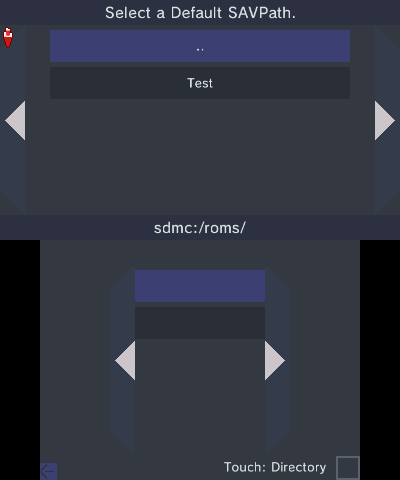
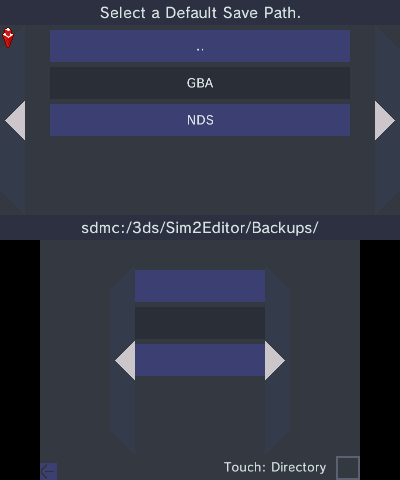
See desc for more.
- GBA Identifier is 8 in size, not 7.
- Fix Backup checks, oops.
- Makefile update.
- Don't allow empty String Label Inputs.

diff --git a/core/source/shared/SavUtils.cpp b/core/source/shared/SavUtils.cpp
@@ -81,7 +81,7 @@ namespace S2Core {
 		Backup Format would be: 'Sims2-Year.Month.Day-Hour.Minute.Second.Sav'
 	*/
 	bool SavUtils::CreateBackup(const std::string &BasePath) {
-		if (!SavUtils::Sav || SavUtils::Sav->GetValid()) return false;
+		if (!SavUtils::Sav || !SavUtils::Sav->GetValid()) return false;
 
 		std::string BackupPath = BasePath + "/Backups/"; // Base path.
 		bool CreateIt = false;
@@ -92,7 +92,7 @@ namespace S2Core {
 		char TimeBuffer[80];
 		time(&Rawtime);
 		TimeInfo = localtime(&Rawtime);
-		strftime(TimeBuffer, sizeof(TimeBuffer),"%Y.%m.%d-%H.%M.%S", TimeInfo); // Get the Time as String.
+		strftime(TimeBuffer, sizeof(TimeBuffer), "%Y.%m.%d-%H.%M.%S", TimeInfo); // Get the Time as String.
 
 		switch(SavUtils::Sav->GetType()) {
 			case SavType::_GBA:

diff --git a/3ds/source/screens/Settings.cpp b/3ds/source/screens/Settings.cpp
@@ -47,7 +47,7 @@ void Settings::ToggleBackups() {
 }
 
 
-/* Set Default SAVPath. */
+/* Set Default Save Path. */
 void Settings::SetDefaultPath() {
 	if (this->Tab == SettingsTab::Configuration) {
 		std::unique_ptr<FileSelection> Overlay = std::make_unique<FileSelection>(CFG->SAVPath(), std::vector<std::string>({ "/" }), "Select a Default Save Path.", true, true);
@@ -152,7 +152,9 @@ void Settings::DrawPages() const {
 
 			/* Change this, after changes to the 3DS version. */
 			Gui::DrawStringCentered(0, 130, 0.4f, TEXT_COLOR,
-				"* [CORE]: Updated Core to the latest commit.",
+				"* [CORE]: GBA Identifier is 8 in size, not 7.\n" \
+				"* [CORE]: Fixed the Backup Checks.\n" \
+				"* [APP]: Don't allow empty String Label Inputs.",
 			310);
 			break;
 	}

diff --git a/core/source/shared/Sav.cpp b/core/source/shared/Sav.cpp
@@ -89,7 +89,7 @@ namespace S2Core {
 			case 0x20000: {
 				bool Res = true;
 
-				for (uint8_t Idx = 0; Idx < 7; Idx++) {
+				for (uint8_t Idx = 0; Idx < 8; Idx++) {
 					if (this->GetData()[Idx] != this->GBAIdent[Idx]) {
 						Res = false;
 						break;
@@ -205,12 +205,7 @@ namespace S2Core {
 		switch(this->SType) {
 			case SavType::_GBA:
 				if (Slot < 1 || Slot > 4 || !this->GetValid()) return false;
-
-				for (uint8_t Idx = 0; Idx < 10; Idx++) {
-					if (this->GetData()[(Slot * 0x1000) + Idx] != 0) return true;
-				}
-
-				return false;
+				return this->GetData()[(Slot * 0x1000) + 0xD] != 0;
 
 			case SavType::_NDS:
 				if (Slot > 2 || !this->GetValid()) return false;

diff --git a/core/include/shared/Sav.hpp b/core/include/shared/Sav.hpp
@@ -79,7 +79,7 @@ namespace S2Core {
 		int8_t InitNDSSlotIdxs(const uint8_t SavSlot, const uint8_t Reg);
 
 		/* Identifiers to check for Savetypes. */
-		static constexpr uint8_t GBAIdent[0x7] = { 0x53, 0x54, 0x57, 0x4E, 0x30, 0x32, 0x34 };
+		static constexpr uint8_t GBAIdent[0x8] = { 0x53, 0x54, 0x57, 0x4E, 0x30, 0x32, 0x34, 0x0 };
 		static constexpr uint8_t NDSIdent[0x8] = { 0x64, 0x61, 0x74, 0x0, 0x1F, 0x0, 0x0, 0x0 };
 	};
 };

diff --git a/3ds/source/labels/StringInputLabel.cpp b/3ds/source/labels/StringInputLabel.cpp
@@ -49,7 +49,8 @@ void StringInputLabel::Draw(void) const {
 /* Input Logic. */
 void StringInputLabel::Input() {
 	std::unique_ptr<KBD> Overlay = std::make_unique<KBD>(this->MaxLength, this->CurrentVal, this->InputText);
-	this->CurrentVal = Overlay->Action();
+	const std::string Str = Overlay->Action();
+	if (Str != "") this->CurrentVal = Str;
 }
 
 

diff --git a/core/source/shared/StringUtils.cpp b/core/source/shared/StringUtils.cpp
@@ -36,6 +36,7 @@ namespace S2Core {
 		"ò", "ó", "ô", "õ", "ö", "ø", "ù", "ú", "û", "ü", "º", "ª", "…", "™", "", "®", ""
 	};
 
+
 	/*
 		Decode bytes to the International Encoding (EUR, USA).
 
